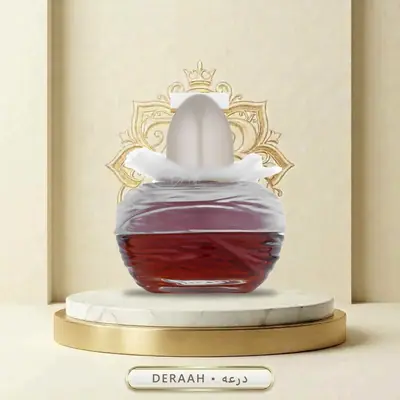
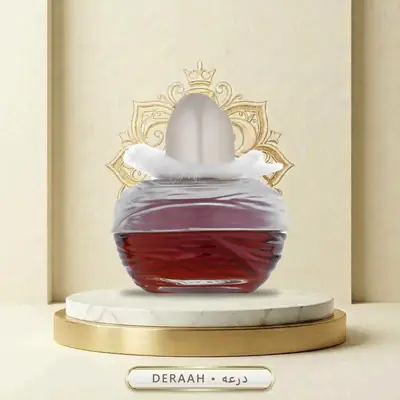
Packs and home fresheners out of the perfumes section; Dream and Fluffy re-cut
- 79 products were templated or photographed correctly but filed as
  perfumes, so they showed among perfumes: Al-Rehab 48-piece pen packs
  (24) and air/room fresheners (39), Deraah collections (7), Laverne
  favour packs (4), Assaf fabric spray and diffuser. Packs are now
  bundles, fresheners sit in bakhoor & home
- Five Deraah hair/body mists were filed under bakhoor; now hair_mist
- Dream: new cutoutRemoveCard flag whitens the message card behind the
  egg cap and keeps the full egg (the earlier top trim flattened it)
- Fluffy re-cut with the full model

Claude-Session: https://claude.ai/code/session_01STVvvRzREoL5Wd8ZBCeqVE

diff --git a/tools/images/render.py b/tools/images/render.py
@@ -363,6 +363,44 @@ def qa_pass(info):
             and info.get("aspect", 0) <= QA_LIMITS["aspect"])
 
 
+def remove_card(img, top, bottom):
+    """Whiten a white message card standing behind an egg-shaped cap.
+
+    Rows top..bottom (fractions of the photo height) hold the card. The cap
+    is light like the card, so its outline there is extrapolated: an
+    ellipse fitted to the cap's edges in the rows just below the card.
+    Everything else in the card rows becomes backdrop.
+    """
+    arr = np.asarray(flatten(img), dtype=np.float32).copy()
+    h, w = arr.shape[:2]
+    y0, y1 = int(top * h), int(bottom * h)
+    solid = arr.min(axis=2) < 240
+    ys, half = [], []
+    for y in range(y1 + 4, min(h, y1 + int(0.15 * h))):
+        xs = np.nonzero(solid[y])[0]
+        if len(xs):
+            ys.append(y)
+            half.append((xs.max() - xs.min()) / 2)
+            cx = (xs.max() + xs.min()) / 2
+    if len(ys) < 5:
+        return Image.fromarray(arr.astype(np.uint8))
+    ys, half = np.array(ys, float), np.array(half)
+    # Stop where the outline jumps outward (feathers or shoulders start).
+    jumps = np.nonzero(half[1:] > half[:-1] * 1.12)[0]
+    stop = int(jumps[0]) + 1 if len(jumps) else len(half)
+    ys, half = ys[:stop], half[:stop]
+    a_ = half.max()
+    cy = ys[int(np.argmax(half))]
+    k = np.clip(half / a_, 0, 0.999)
+    b_ = np.median(np.abs(ys - cy) / np.sqrt(1 - k ** 2))
+    yy, xx = np.mgrid[0:h, 0:w]
+    egg = ((xx - cx) / (a_ * 0.97)) ** 2 + ((yy - cy) / max(b_, 1)) ** 2 <= 1
+    region = np.zeros((h, w), bool)
+    region[y0:y1 + 4] = True
+    arr[region & ~egg] = 255
+    return Image.fromarray(arr.clip(0, 255).astype(np.uint8))
+
+
 def showcase(item, house):
     src = fetch(source_url(item))
     if item.get("cutoutCrop"):
@@ -370,6 +408,8 @@ def showcase(item, house):
         # photo also shows its box.
         l, t, r, b = item["cutoutCrop"]
         src = src.crop((round(l * src.width), round(t * src.height), round(r * src.width), round(b * src.height)))
+    if item.get("cutoutRemoveCard"):
+        src = remove_card(src, *item["cutoutRemoveCard"])
     cut, info = cutout(src, mirror=(house == "ghalati" and needs_mirror_clip(item)) or bool(item.get("cutoutMirrorClip")),
                        solid=bool(item.get("cutoutSolid")),
                        mirror_fill_=bool(item.get("cutoutMirrorFill")),

diff --git a/tools/images/README.md b/tools/images/README.md
@@ -35,6 +35,7 @@ Some photos need a hint in the catalog entry before rendering:
 - `cutoutStraightLeft: true` cuts a shadow bulging past the left side of a straight-sided bottle (charms on the right are kept).
 - `cutoutModel: "birefnet-general"` uses the full (slower, ~12 GB RAM) model, which separates soft cast shadows the lite model keeps; render such items one per process.
 - `cutoutCapClip: 0.12` keeps only the cap width above that fraction of the height (drops a card standing behind the cap).
+- `cutoutRemoveCard: [top, bottom]` whitens a message card standing behind an egg-shaped cap (rows as fractions of the photo height); the cap outline there is extrapolated from below the card.
 - `cutoutCrop: [l, t, r, b]` crops the source photo (fractions) before the cutout, e.g. to leave out the box next to a bottle.
 
 After rendering, run `python tools/images/thumbs.py` to refresh the card thumbnails. Image URLs carry `?v=<content hash>` so browsers never show a cached older picture; `python tools/images/versions.py` re-syncs them after manual image edits.
